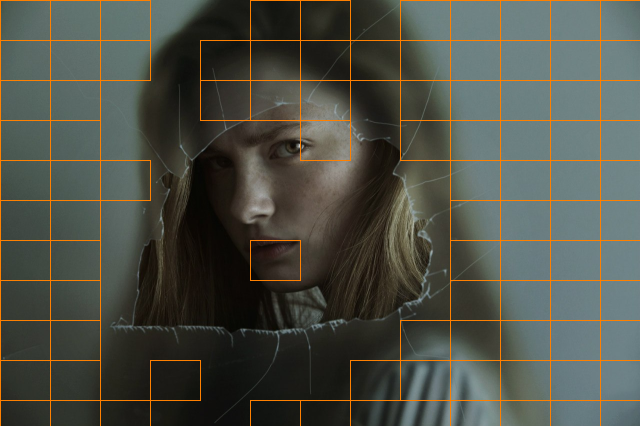
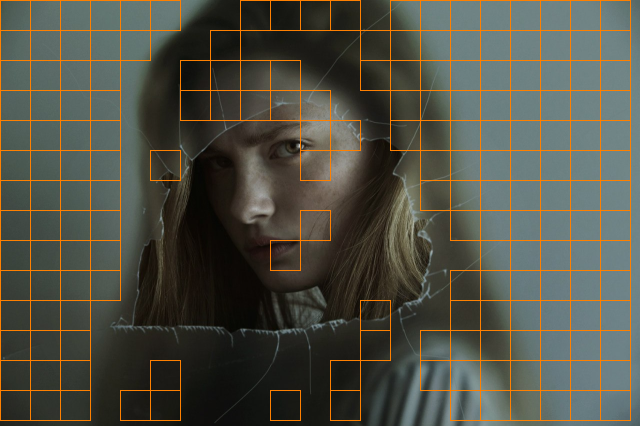
added glvn

diff --git a/_masters_/ml/blur/blur.py b/_masters_/ml/blur/blur.py
@@ -7,15 +7,16 @@ from _masters_.ml.square_contours.contours import Point
 # https://vk.com/doc1164151_516201556?hash=d3ac940079dcba822a&dl=37b24c9319a7ddb58b
 
 SOURCE_IMG_PATH = 'original.png'
-RESULT_IMG_PATH = 'res.png'
+RESULT_TENG_IMG_PATH = 'teng-res.png'
+RESULT_GLVN_IMG_PATH = 'glvn-res.png'
 
 # размер окна, проходя которым по фрагменту, проверяем его заблюренность
-WINDOW_HEIGHT = 30
-WINDOW_WIDTH = 30
+WINDOW_HEIGHT = 3
+WINDOW_WIDTH = 3
 
 # фрагменты, на которые бьется изображение
-FRAGMENT_HEIGHT = 40
-FRAGMENT_WIDTH = 50
+FRAGMENT_HEIGHT = 30
+FRAGMENT_WIDTH = 30
 
 SOBEL_X = [[-1, 0, 1],
            [-2, 0, 2],
@@ -29,10 +30,57 @@ class Fragment:
     def __init__(self, top_left: Point, bot_right: Point, img: np.ndarray):
         self.top_left = top_left
         self.bot_right = bot_right
-        part = img[top_left.y: bot_right.y, top_left.x: bot_right.x]
-        self.img = part
+        self.img = img[top_left.y: bot_right.y, top_left.x: bot_right.x]
+        self.height, self.width = self.img.shape[:2]
+        self.teng = None    # for memoization
+        self.glvn = None    # for memoization
+        self.lvs = dict()
 
-    def local_variance_at(self, m: int, n: int) -> float:
+    def tenengrad(self) -> float:
+        if self.teng is not None:
+            return self.teng
+        G_x = convolve2d(self.img, SOBEL_X)
+        G_y = convolve2d(self.img, SOBEL_Y)
+        S = np.sqrt(np.square(G_x) + np.square(G_y))
+
+        threshold = np.max(S) * 0.66
+        res = np.where(S > threshold)
+
+        self.teng = np.sum(np.square(res))
+        return self.teng
+
+    def grey_level_local_variance(self) -> float:
+        if self.glvn is not None:
+            return self.glvn
+        lv = 0
+        M = self.width
+        N = self.height
+        m = 0
+        while m < M - WINDOW_HEIGHT:
+            n = 0
+            while n < N - WINDOW_WIDTH:
+                lv += self._local_variance_at(n, m)
+                n += 1
+            m += 1
+
+        lv_mean = lv / (M * N)
+
+        m = 0
+        glvn = 0
+        while m < M - WINDOW_HEIGHT:
+            n = 0
+            while n < N - WINDOW_WIDTH:
+                lv = self._local_variance_at(n, m)
+                glvn += (lv - lv_mean) ** 2
+                n += 1
+            m += 1
+
+        self.glvn = glvn / (M * N)
+        return self.glvn
+
+    def _local_variance_at(self, m: int, n: int) -> float:
+        if (m, n) in self.lvs:
+            return self.lvs[(m, n)]
         summ = 0
         i = 0
         while i < WINDOW_WIDTH:
@@ -46,20 +94,13 @@ class Fragment:
                 summ += (I - I_mean) ** 2
                 j += 1
             i += 1
-        return summ / (WINDOW_HEIGHT * WINDOW_WIDTH)
 
-    def tenengrad(self) -> float:
-        G_x = convolve2d(self.img, SOBEL_X)
-        G_y = convolve2d(self.img, SOBEL_Y)
-        S = np.sqrt(np.square(G_x) + np.square(G_y))
-
-        threshold = np.max(S) * 0.63
-        res = np.where(S > threshold)
-        return np.sum(np.square(res))
+        self.lvs[(m, n)] = summ / (WINDOW_HEIGHT * WINDOW_WIDTH)
+        return self.lvs[(m, n)]
 
     def draw(self, img: np.ndarray):
         bgr_orange_color = (0, 128, 255)
-        return cv2.rectangle(img,
+        cv2.rectangle(img,
                       pt1=(self.top_left.x, self.top_left.y),
                       pt2=(self.bot_right.x, self.bot_right.y),
                       color=bgr_orange_color, thickness=1)
@@ -107,16 +148,28 @@ def main():
 
     # detect blurred pieces with tenengrad
     tenengrads = list(map(lambda f: f.tenengrad(), fragments))
-    teng_thresh = max(tenengrads) * 0.48
+    teng_thresh = max(tenengrads) * 0.66
 
     for fragment in fragments:
         if fragment.tenengrad() > teng_thresh:
             fragment.draw(original1)
 
-    cv2.imwrite(f'./teng-{RESULT_IMG_PATH}', original1)
+    cv2.imwrite(f'./{RESULT_TENG_IMG_PATH}', original1)
 
     # detect blur with GLVN
+    glvns = []
+    i = 0
+    for f in fragments:
+        glvns.append(f.grey_level_local_variance())
+        print(f'{i}/{len(fragments)}: {f.grey_level_local_variance()}')
+        i += 1
+    glvn_thresh = max(glvns) * 0.001
 
+    for fragment in fragments:
+        if fragment.grey_level_local_variance() < glvn_thresh:
+            fragment.draw(original2)
+
+    cv2.imwrite(f'./{RESULT_GLVN_IMG_PATH}', original2)
 
 
 if __name__ == '__main__':
